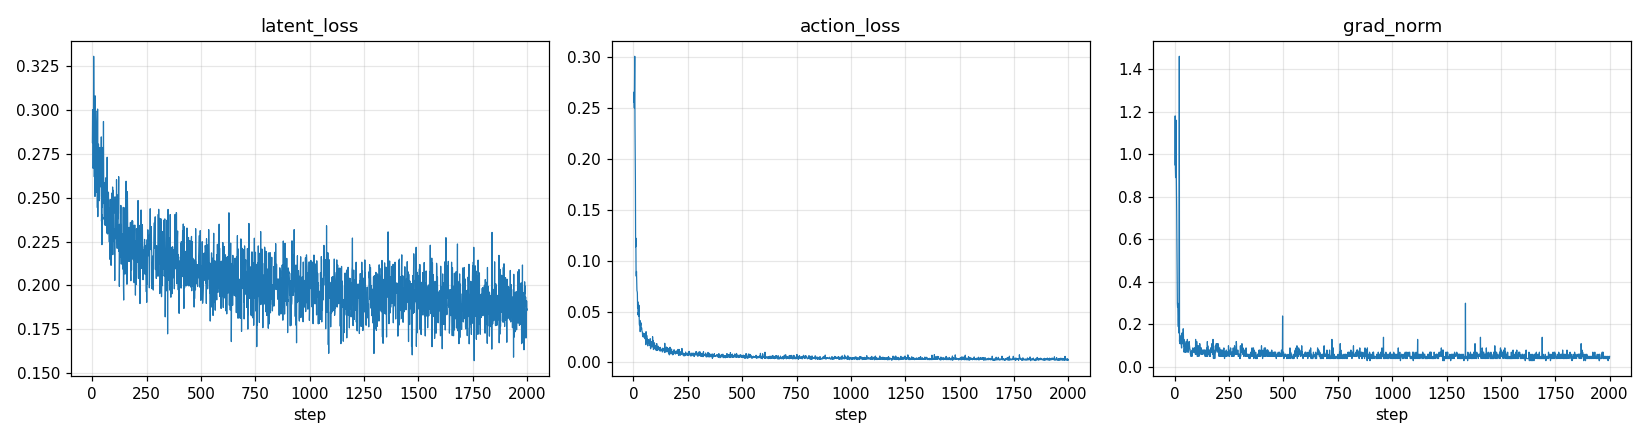
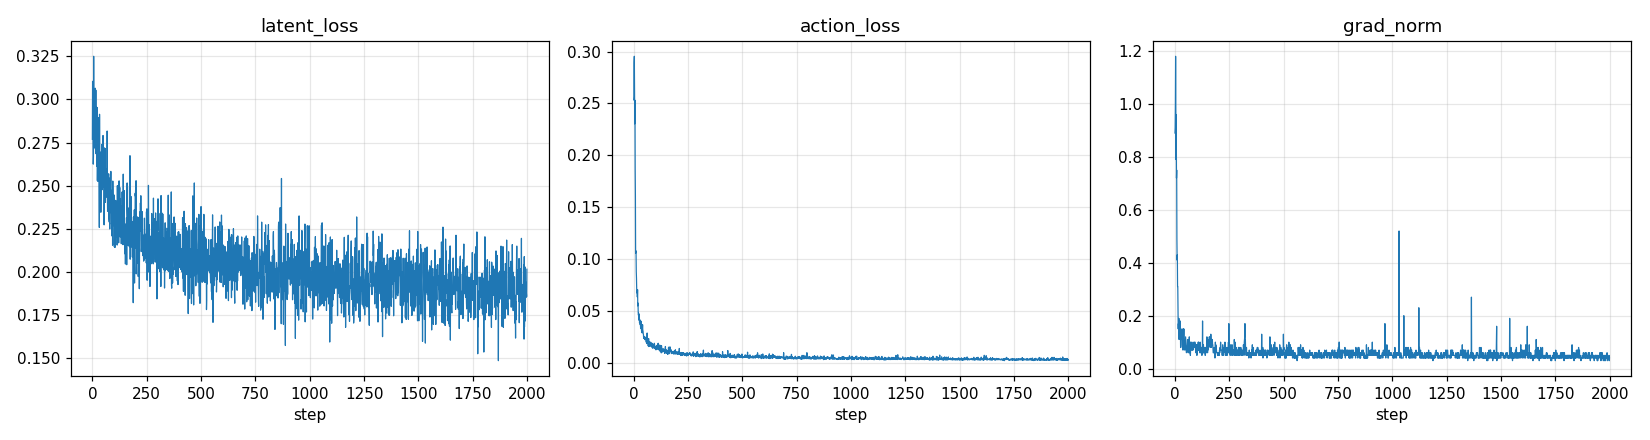
[lingbot-va] update report with 2000 steps

diff --git a/final_report.md b/final_report.md
@@ -3,9 +3,9 @@
 > **平台**:8 × BW1000_H(单卡 63G)· 1 节点 · 300C / 2000G
 > **软件栈**:torch 2.7.1 · RCCL/NCCL 2.22.3 · flex_attention(compiled)· FSDP2
 > **任务**:RoboTwin post-training 端到端验证(robotwin_train_val,与正式训练同配置、更短步数)+ i2va 评测
-> **训练区间**:2026-10-02 10:08:58 → 2026-10-02 10:08:58(20h49m)
+> **训练区间**:2026-10-02 10:24:35 → 2026-10-03 11:54:15(25h27m)
 > **结论**:✅ 全流程跑通;训练 2000/2000 步,checkpoint ✔,i2va demo ✔
-> **生成时间**:2026-10-02 10:13(由 script/gen_final_report.py 自动生成)
+> **生成时间**:2026-10-03 11:58(由 script/gen_final_report.py 自动生成)
 
 ---
 
@@ -24,9 +24,9 @@
 
 | 维度 | 结果 |
 |---|---|
-| 训练完成度 | ✅ 2000 / 2000 步(20h49m) |
-| 数值健康 | ✅ NaN 0 次,grad_norm 最大 1.46(clip 2.0)|
-| Loss 变化 | latent 0.2816→**0.1865**(-33.8%);action 0.2561→**0.0025**(-99.0%)|
+| 训练完成度 | ✅ 2000 / 2000 步(25h27m) |
+| 数值健康 | ✅ NaN 0 次,grad_norm 最大 1.18(clip 2.0)|
+| Loss 变化 | latent 0.2769→**0.2016**(-27.2%);action 0.2535→**0.0030**(-98.8%)|
 | Checkpoint | ✅ `/home/tione/notebook/code/lingbot-va/train_out_val/checkpoints/checkpoint_step_2000` |
 | i2va 评测 | ✅ `/home/tione/notebook/code/lingbot-va/train_out_val/eval/demo_step_2000.mp4`(77 帧, 7.7s, 320×384) |
 
@@ -34,11 +34,11 @@
 
 | 指标 | 实测值 |
 |---|---|
-| 稳态速度 | **37.49 s/optimizer step**(tqdm 末行)|
-| 总时长 | 20h49m(2000 步)|
+| 稳态速度 | **45.83 s/optimizer step**(tqdm 末行)|
+| 总时长 | 25h27m(2000 步)|
 | GPU 拓扑 | 1 节点 × 8 卡 = 8 卡 |
 | 有效 batch | 32(8 卡 × batch 1 × grad_accum 4)|
-| 吞吐 | **0.8536 samples/s**(全卡合计)|
+| 吞吐 | **0.6982 samples/s**(全卡合计)|
 
 ## 3. 训练 Loss
 
@@ -48,29 +48,29 @@
 
 | step | latent_loss | action_loss | grad_norm |
 |---:|---:|---:|---:|
-| 1 | 0.2823 | 0.2628 | 0.996 |
-| 223 | 0.2202 | 0.0100 | 0.066 |
-| 445 | 0.2080 | 0.0063 | 0.058 |
-| 667 | 0.2061 | 0.0048 | 0.060 |
-| 889 | 0.2051 | 0.0041 | 0.053 |
-| 1112 | 0.1966 | 0.0039 | 0.052 |
-| 1334 | 0.1925 | 0.0034 | 0.066 |
-| 1556 | 0.1994 | 0.0033 | 0.051 |
-| 1778 | 0.1920 | 0.0041 | 0.051 |
-| 2000 | 0.1830 | 0.0028 | 0.042 |
+| 0 | 0.2887 | 0.2701 | 0.996 |
+| 222 | 0.2253 | 0.0082 | 0.067 |
+| 444 | 0.2066 | 0.0062 | 0.059 |
+| 666 | 0.2054 | 0.0049 | 0.054 |
+| 888 | 0.1969 | 0.0041 | 0.052 |
+| 1111 | 0.1957 | 0.0039 | 0.050 |
+| 1333 | 0.1945 | 0.0037 | 0.055 |
+| 1555 | 0.1918 | 0.0033 | 0.050 |
+| 1777 | 0.1831 | 0.0031 | 0.050 |
+| 1999 | 0.1900 | 0.0029 | 0.040 |
 
 ### 判读
 
-- **latent_loss**:0.2816 → 0.1865(-33.8%)
-- **action_loss**:0.2561 → 0.0025(-99.0%)
-- **NaN 次数**:0;**grad_norm 峰值**:1.46(< clip 2.0 为健康)
+- **latent_loss**:0.2769 → 0.2016(-27.2%)
+- **action_loss**:0.2535 → 0.0030(-98.8%)
+- **NaN 次数**:0;**grad_norm 峰值**:1.18(< clip 2.0 为健康)
 - 无 validation loss(官方代码无验证循环);质量验证依赖 i2va 生成评测
 
 ## 4. 资源占用
 
 | 资源 | 值 |
 |---|---|
-| 显存峰值(训练期采样)| 26671 MiB / 63 GB × 8 卡 |
+| 显存峰值(训练期采样)| 56610 MiB / 63 GB × 8 卡 |
 | CPU / 内存 | 300C / 2000G(单节点)|
 | 基座模型 | `/home/tione/notebook/model/lingbot-va-base` |
 | 数据集 | `/home/tione/notebook/data/robotwin-clean-and-aug-lerobot/lerobot_robotwin_eef_aug_500` |
